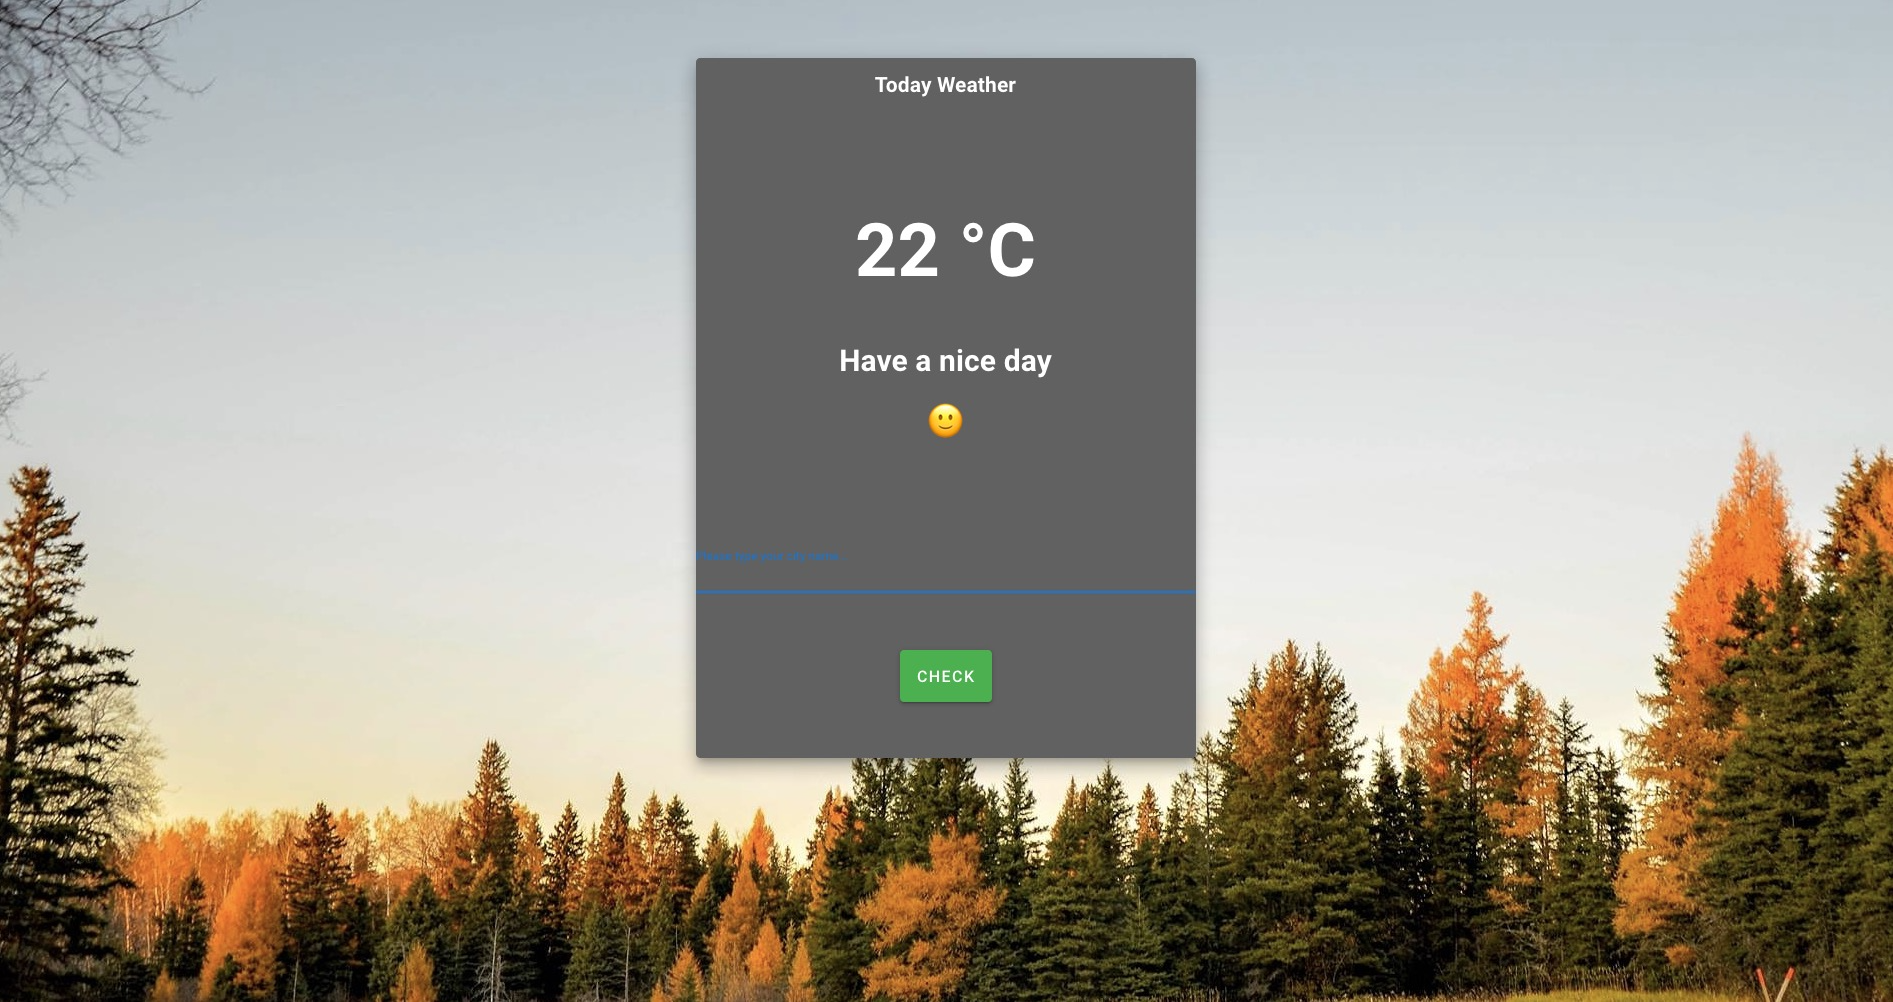
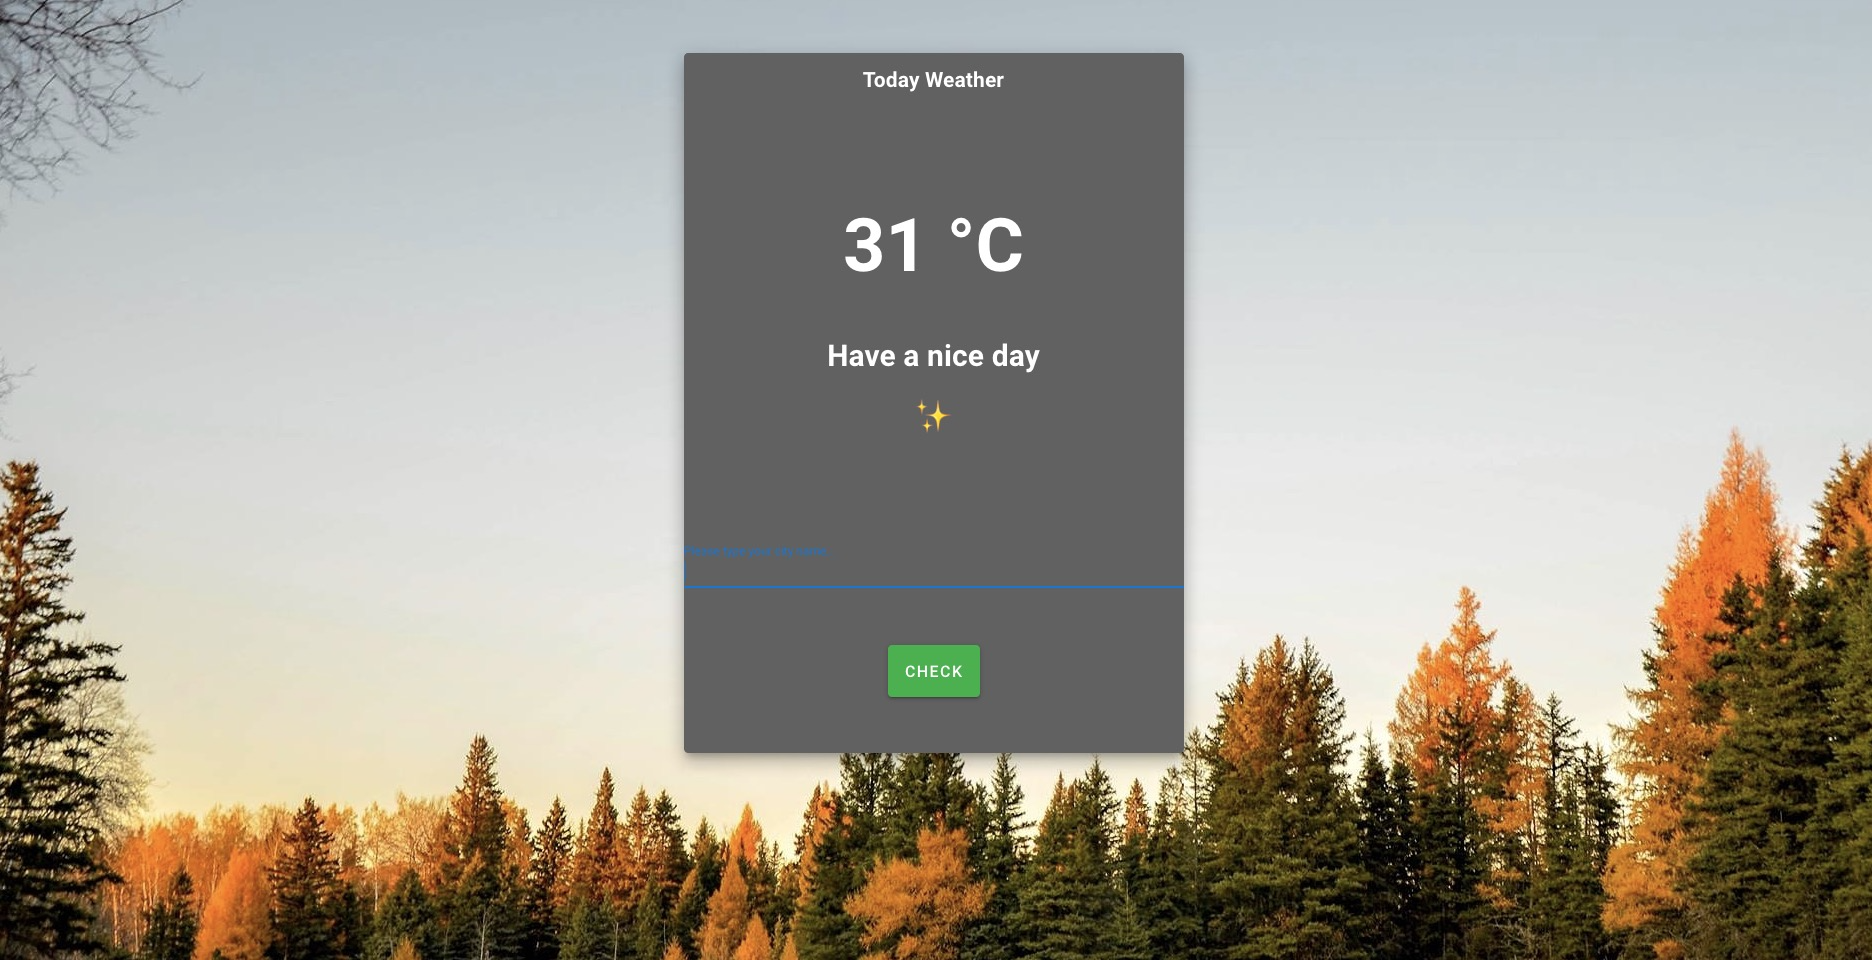
changing

diff --git a/src/components/Weather.vue b/src/components/Weather.vue
@@ -20,7 +20,7 @@
         <br />
         <p id="niceDay">Have a nice day</p>
         <br />
-        🙂
+        ✨
       </div>
     </v-card-text>
 
